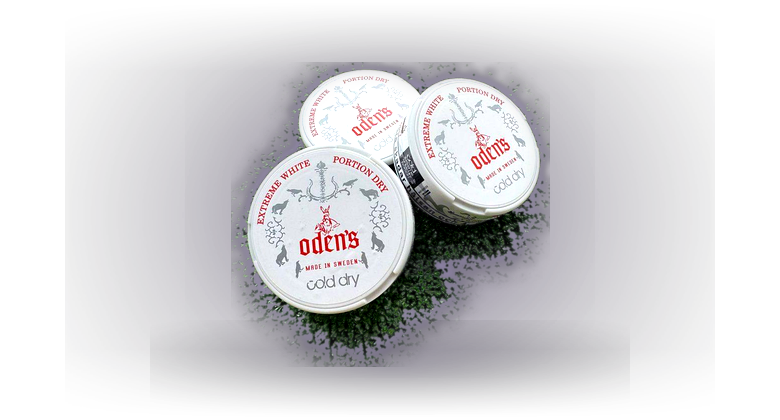
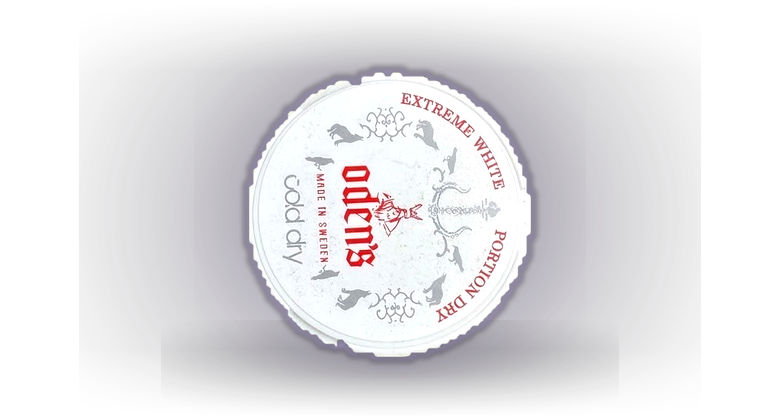
sn3 (Odens): new card from photo, background removed

Changed region(s): [[0.2769, 0.1238, 0.7077, 0.8976]]

diff --git a/index.html b/index.html
@@ -5,7 +5,7 @@
 <meta name="viewport" content="width=device-width, initial-scale=1, maximum-scale=1, user-scalable=no">
 <title>VapeOasis — мини-приложение</title>
 <script src="https://telegram.org/js/telegram-web-app.js"></script>
-<link rel="stylesheet" href="style.css?v=20261013e">
+<link rel="stylesheet" href="style.css?v=20261013f">
 </head>
 <body>
 <div id="fx"></div>
@@ -82,7 +82,7 @@
 
 <div class="sheet" id="sheet"><div class="in" id="sheetIn"></div></div>
 
-<script src="products.js?v=20261013e"></script>
-<script src="app.js?v=20261013e"></script>
+<script src="products.js?v=20261013f"></script>
+<script src="app.js?v=20261013f"></script>
 </body>
 </html>

diff --git a/app.js b/app.js
@@ -20,7 +20,7 @@ let discountPick = localStorage.getItem("vo_disc") || null; // жижа, на к
 
 const $ = s=>document.querySelector(s);
 const money = n=>n+"₽";
-const IMG_VER = "20261013e";
+const IMG_VER = "20261013f";
 const imgv = u => u ? (u.indexOf("?")>=0 ? u : u+"?v="+IMG_VER) : u;
 const byId = id=>PRODUCTS.find(p=>p.id===id);
 const catEmoji = c=>({liquids:"🧪",pods:"🔌",disposable:"💨",cartridges:"♻",snus:"📦"}[c]||"•");
